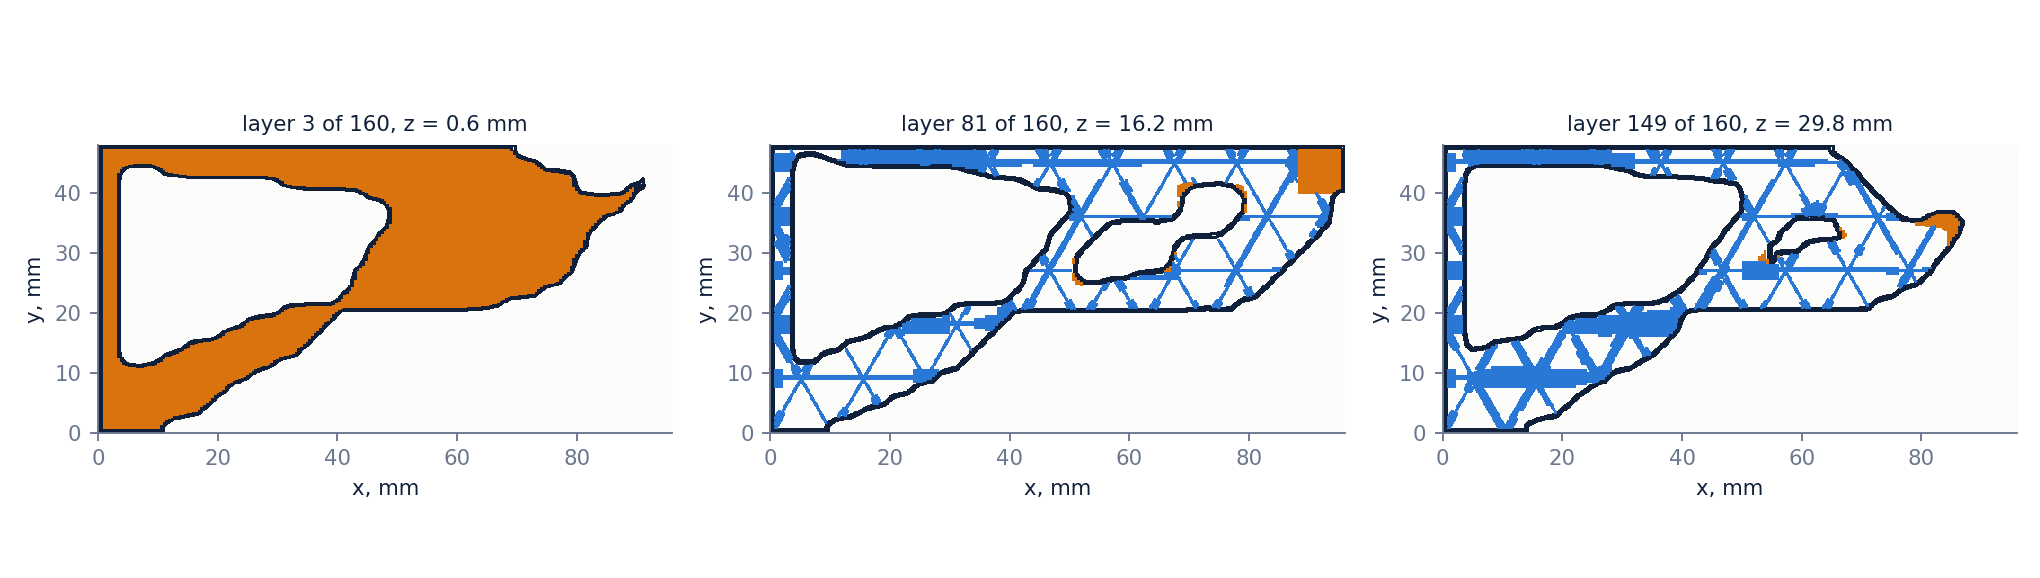
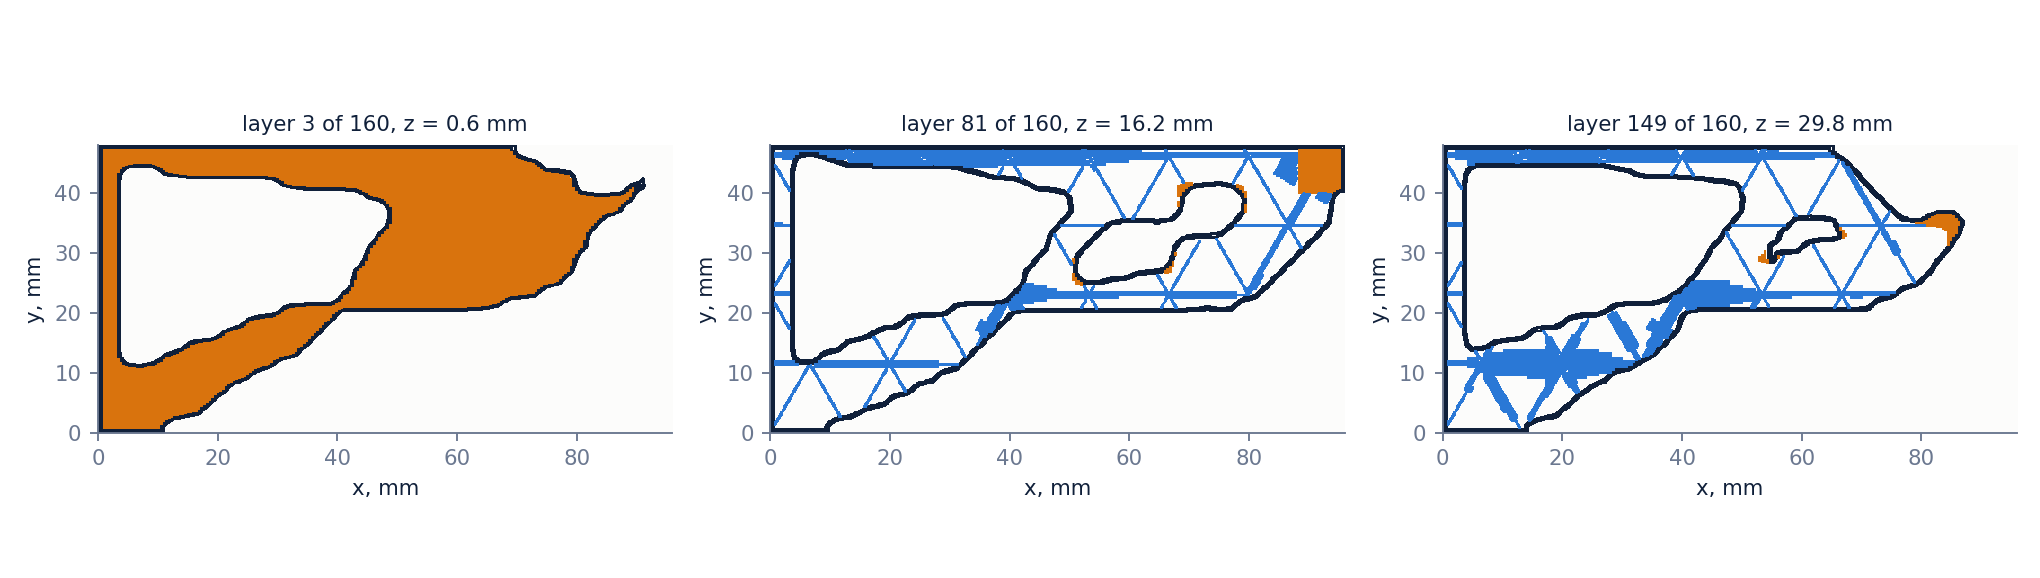
Topoprint: second part (sanding drum), Taguchi study, printer-ready output, next steps; truth check corrected

diff --git a/content/projects/topoprint/index.md b/content/projects/topoprint/index.md
@@ -90,7 +90,22 @@ The slicer is written for this job. Each 0.2 mm layer gets two perimeters, solid
 | Voxels with no support within 45° below | 0 of 6,441 |
 | Separate bodies | 1 |
 | Layers | 160 |
-| Extruded path | 150 m perimeter, 39 m solid, 188 m infill |
+| Extruded path | 150 m perimeter, 39 m solid, 124 m infill |
+
+The output is a Bambu `.gcode.3mf` for a P1S in PLA. The start and end sequences are lifted from a file Bambu Studio sliced for the same footprint, so homing, bed levelling, purge and temperatures are the vendor's own. Only the layers between are mine. Where infill lines of different directions cross, the later line stops at the earlier one, so a crossing is printed once.
+
+Every file is replayed before it is offered to the printer.
+
+| Replay check | Result |
+| --- | --- |
+| Extrusion inside the 256 mm bed | yes |
+| Extrusion outside the part outline | 0 mm |
+| Peak flow, limit 12 mm³/s | 11.5 mm³/s |
+| Travel over 2 mm without retraction | 0 |
+| Mass in PLA | 34.7 g |
+| Same spec, second run | byte-identical file |
+
+The last row is deliberate. The pipeline has no random step: the same inputs give the same design, the same compliance history and the same G-code, and a test holds it to that.
 
 ## 6. What the agents found
 
@@ -105,7 +120,57 @@ One negative result. Random ligament networks, after a 2026 Nature paper on scal
 ## 7. What stands between this and a part I would trust
 
 - Nothing is printed. The plan is the optimized bracket and the 20% gyroid baseline, loaded on an Instron, with measured stiffness fed back into the material law.
-- No strength model. The optimizer minimizes deflection. It does not limit stress, buckling of thin walls, or tension across layers, which is where a print is weakest.
-- The G-code extrudes 33.9 cm³ against the 23.8 cm³ the optimizer assumed, mostly because crossing infill lines are counted twice. Flow has to drop at the crossings before the mass numbers above are real.
-- The infill-as-material assumption was checked on one layer. With every wall resolved, the layer is 0.73 times as compliant as the model says, so the model is on the safe side, but that solve also carried a third more wall material.
-- The base plastic is taken as isotropic at 3,000 MPa. The start block in the G-code is generic.
+- The bracket optimizer minimizes deflection only. The strength check in section 8 came later and is not yet a constraint inside it. Buckling of thin walls is not modelled at all.
+- The file extrudes 27.5 cm³ against the 23.8 cm³ the optimizer counted. The model smears the shell over 2 mm voxels and comes out about a sixth light.
+- The infill-as-material assumption was checked on one layer. With every wall resolved, the layer is 1.17 times as compliant as the model says, so the deflections above are optimistic by roughly that much. An earlier version of this page said the opposite. That check had run on toolpaths that printed the shell twice.
+- The base plastic is taken as isotropic at 3,000 MPa. The printer file passes its replay check but has not run on a machine.
+
+## 8. A second part: a sanding drum
+
+![The drum: a base plate with eight windows, a rim wall and a central shank](drum_geometry.png)
+
+*Figure 4. A 164 mm drum, 30 mm tall. Sandpaper wraps the outside of the rim, the 10 mm shank goes in a drill chuck, and the tool opens up a bore in another part by 3 cm.*
+
+The bracket's shape was free. This one is fixed, and the question changes: what slicing uses the least filament and time and still holds up? The part came in as a STEP file. Occupancy was frozen, and two load cases were applied: 3.3 N·m of sanding drag all round the rim, and a 50 N side press with 40 N of drag on a 40° patch. Stress is checked three ways with separate limits: 45 MPa in the layer plane, 25 MPa in tension across layers, 20 MPa in shear between layers. Those are assumed values for PLA, and the target is a safety factor of 2.
+
+![Stress over allowable by region, with sparse infill everywhere and with the shank and hub solid](drum_utilization.png)
+
+*Figure 5. Stress over allowable, by region. The spokes and rim are nowhere near their limit. The shank is.*
+
+The physics prunes the search before any search runs.
+
+- The shank decides everything. It prints with its layers stacked along the axis, so drive torque is carried as shear between layers. With 15% infill it sits at 1.07 of its allowable. Printed solid with the hub it drops to 0.34 in the model. A hand calculation at the shank surface gives 0.84, above the target, so I would not trust a printed 10 mm shank beyond light passes. A bolt through the hub as the arbor is the real fix.
+- Orientation is not close. Base down needs no support: 83 g and 2 h 01 at default settings. Open side down is 119 g and 5 h 16. On its side is 122 g and 4 h 42.
+
+What is left is seven slicer settings. A full grid over them is 1,458 slices. A Taguchi L18 array covers them in 18, each one sliced by Bambu Studio for filament and time and solved for stress and deflection. Each setting is also scored under four noise conditions: nominal and 1.5 times torque, full and 70% layer-bond strength, and the side press landing over a spoke or over a window. The noise is free, because the model is linear in load.
+
+![Main effects of seven slicer settings on filament, time and stress](drum_taguchi.png)
+
+*Figure 6. Effect of each setting, higher is better. Wall count sets filament. Infill pattern sets stress: lightning infill is lightest and leaves the rim and spokes unsupported. Thick layers help time and stress together.*
+
+| | Filament | Time | Worst stress over allowable, four noise conditions |
+| --- | --- | --- | --- |
+| Bambu default, shank and hub solid | 86.8 g | 2 h 06 | 0.20 |
+| Taguchi choice, shank and hub solid | 67.9 g | 1 h 30 | 0.50 |
+| Predicted for that choice from the 18 runs | 68.9 g | 1 h 28 | |
+
+The choice is 0.28 mm layers, 2 walls, 5% gyroid, 3 top and 2 bottom layers, 0.42 mm lines. Filament and time alone would have picked lightning infill. The strength check moved it to gyroid. It saves 22% of the filament and 29% of the time against the default and lands exactly on the safety factor of 2 in the worst noise condition, so there is no margin beyond the target. The additive prediction was within 2% of the confirmation run, which is what says 18 runs were enough.
+
+Two things the model does not see here. Top skins over 5% infill bridge a long way, and 10% is the safer print. And sanding makes heat at the rim, which matters for PLA.
+
+## 9. Next: what else can be free
+
+| Variable | Today | Next |
+| --- | --- | --- |
+| Occupancy | free on the bracket, frozen on the drum | free inside a keep-out envelope, so a given part can lose material |
+| Infill density per voxel | free | unchanged |
+| Thick-wall direction | three choices per voxel | continuous, following the stress |
+| Infill pattern | one per run | chosen per region from the cells the agents found |
+| Walls, skins, layer height, line width | swept by Taguchi array on the drum | the same array on every part, then refined around its optimum |
+| Print orientation | three poses compared | searched, with strength across layers as the reason |
+| Solid regions | set by hand from the stress result | set by the minimum-filament loop |
+| Material | an input | a factor, once strength data per filament exists |
+
+The objective has to widen with them. Today the bracket minimizes deflection at fixed mass. The drum needed least filament subject to strength, with print time taken from the slicer. A loop for that exists: it starts every voxel at the infill floor and raises density only where stress is over the limit. On the drum, 0.5% of voxels were over at the floor, all in the shank, and six steps were not enough to converge there. Buckling and heat are still outside the model.
+
+The search itself should stop being a grid. The order that worked on the drum is: prune with physics, screen with an orthogonal array, confirm the prediction, then let the agent groups propose settings against the slicer and solver as judge.

diff --git a/content/projects/topoprint/deck.md b/content/projects/topoprint/deck.md
@@ -54,9 +54,21 @@ Written for this job. Perimeters, skins, and a triangular infill whose walls are
 
 Two sub-problems went to groups of Claude agents, scored by the solver. They converged on thickening one wall direction and turning it toward the stress. That cut deflection from 0.97 to 0.79 mm.
 
+## Drum
+
+A second part with a fixed shape: a sanding drum on a drill. The shank carries torque as shear between layers and sits near its limit even solid. Spokes and rim are below a tenth of theirs.
+
+![Stress over allowable by region](drum_utilization.png)
+
+## Taguchi
+
+Seven slicer settings, 18 runs in place of 1,458, each sliced by Bambu Studio and solved under four noise conditions. 68 g and 1 h 30 against 87 g and 2 h 06 for the default, at a safety factor of 2.
+
+![Main effects of the seven settings](drum_taguchi.png)
+
 ## Next
 
-Print the bracket and the gyroid baseline, load both on an Instron, and feed the measured stiffness back into the material law.
+Print the bracket and the gyroid baseline and load both on an Instron. Then free more variables: orientation, wall direction, pattern per region, and strength as a constraint inside the optimizer.
 
 ![Compliance and mesh size per cycle](topoprint_convergence.png)
 
@@ -66,4 +78,5 @@ Print the bracket and the gyroid baseline, load both on an Instron, and feed the
 - How infill becomes a material law
 - The overhang rule
 - What the agents got wrong
-- Strength, and why it is not in yet
+- Why the shank governs the drum
+- Strength, and where it is still missing
